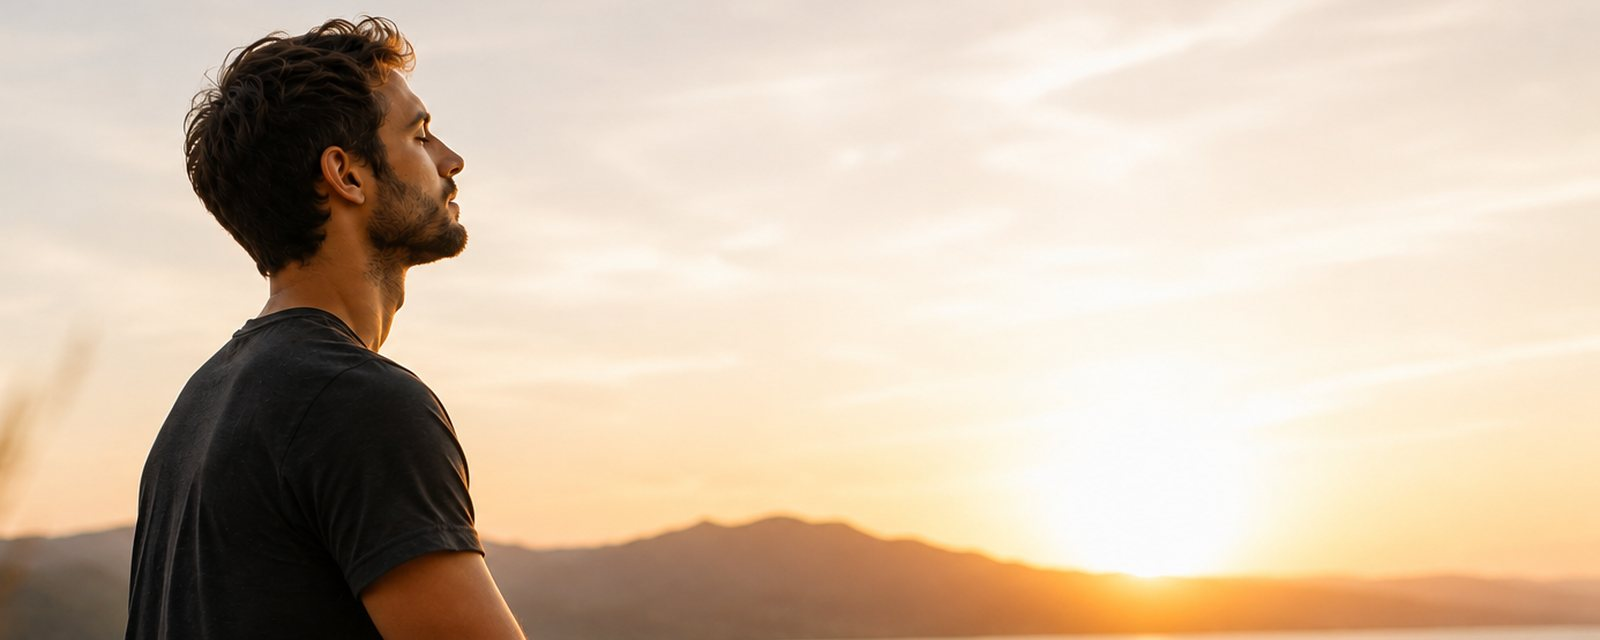
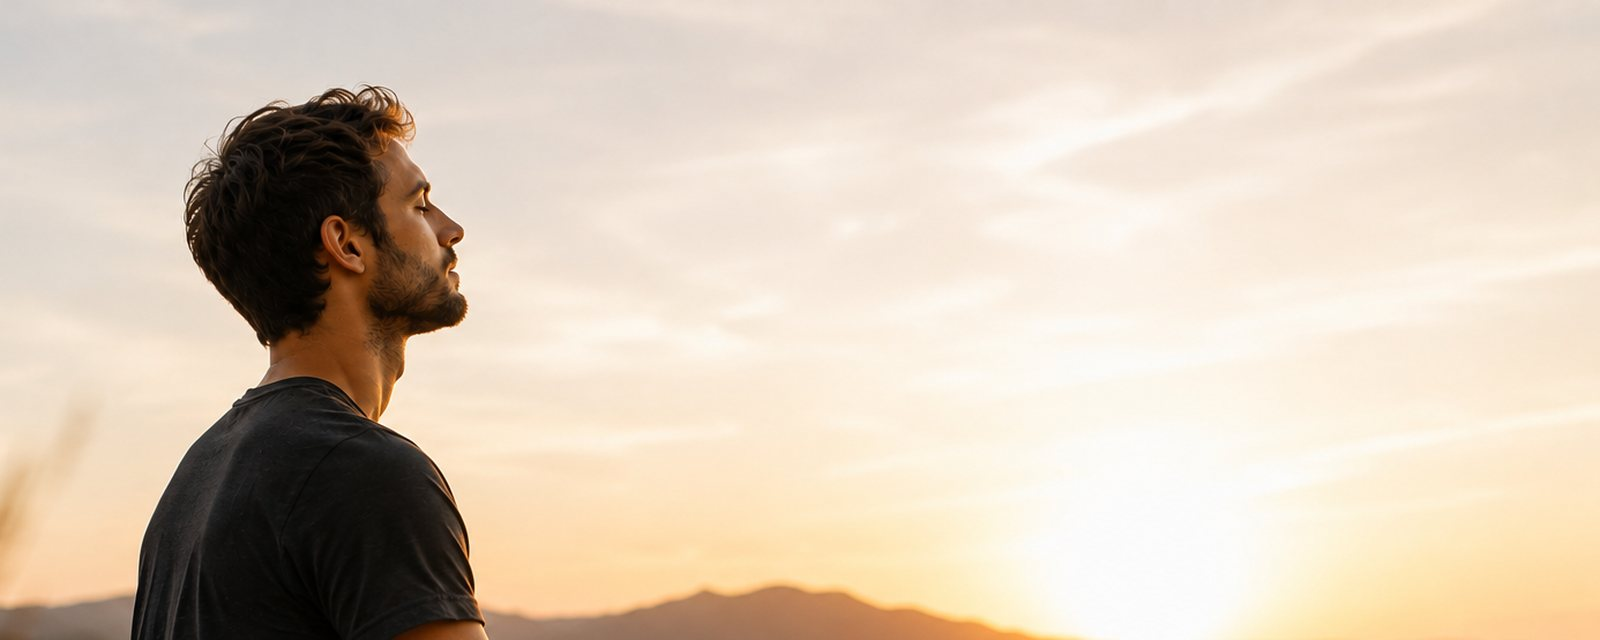
Glava u kadru na zavrsnoj traci (v=116)

diff --git a/style.css b/style.css
@@ -456,7 +456,7 @@ ul.ls.cols2{display:grid;grid-template-columns:1fr 1fr;gap:12px 34px;margin-bott
 .fw .intro .wrap .pl{max-width:1040px;}
 .fw .bigquote blockquote{max-width:1040px;}
 .fw .quote-band p{max-width:860px;}
-.quote-band{background-image:url('img/zavrsna.jpg?2');background-position:left center;}
+.quote-band{background-image:url('img/zavrsna.jpg?3');background-position:left top;}
 
 /* ---- samadhi v4: jace dizajnerske sekcije ---- */
 .icon-grid .ig{background:#fffdfa;border:1px solid #eee0d0;border-radius:16px;padding:28px 14px 24px;transition:transform .25s, box-shadow .25s;}

diff --git a/blog.html b/blog.html
@@ -7,7 +7,7 @@
 <link rel="preconnect" href="https://fonts.googleapis.com">
 <link rel="preconnect" href="https://fonts.gstatic.com" crossorigin>
 <link href="https://fonts.googleapis.com/css2?family=Lora:ital,wght@0,400;0,500;0,600;0,700;1,400&family=Open+Sans:wght@300;400;500;600;700&display=swap" rel="stylesheet">
-<link rel="stylesheet" href="style.css?v=115">
+<link rel="stylesheet" href="style.css?v=116">
 </head>
 <body class="fw">
 

diff --git a/faq.html b/faq.html
@@ -7,7 +7,7 @@
 <link rel="preconnect" href="https://fonts.googleapis.com">
 <link rel="preconnect" href="https://fonts.gstatic.com" crossorigin>
 <link href="https://fonts.googleapis.com/css2?family=Lora:ital,wght@0,400;0,500;0,600;0,700;1,400&family=Open+Sans:wght@300;400;500;600;700&display=swap" rel="stylesheet">
-<link rel="stylesheet" href="style.css?v=115">
+<link rel="stylesheet" href="style.css?v=116">
 </head>
 <body class="fw">
 

diff --git a/index.html b/index.html
@@ -7,7 +7,7 @@
 <link rel="preconnect" href="https://fonts.googleapis.com">
 <link rel="preconnect" href="https://fonts.gstatic.com" crossorigin>
 <link href="https://fonts.googleapis.com/css2?family=Lora:ital,wght@0,400;0,500;0,600;0,700;1,400&family=Open+Sans:wght@300;400;500;600;700&display=swap" rel="stylesheet">
-<link rel="stylesheet" href="style.css?v=115">
+<link rel="stylesheet" href="style.css?v=116">
 </head>
 <body class="fw">
 

diff --git a/kolacici.html b/kolacici.html
@@ -7,7 +7,7 @@
 <link rel="preconnect" href="https://fonts.googleapis.com">
 <link rel="preconnect" href="https://fonts.gstatic.com" crossorigin>
 <link href="https://fonts.googleapis.com/css2?family=Lora:ital,wght@0,400;0,500;0,600;0,700;1,400&family=Open+Sans:wght@300;400;500;600;700&display=swap" rel="stylesheet">
-<link rel="stylesheet" href="style.css?v=115">
+<link rel="stylesheet" href="style.css?v=116">
 </head>
 <body class="fw">
 

diff --git a/konstelacije.html b/konstelacije.html
@@ -7,7 +7,7 @@
 <link rel="preconnect" href="https://fonts.googleapis.com">
 <link rel="preconnect" href="https://fonts.gstatic.com" crossorigin>
 <link href="https://fonts.googleapis.com/css2?family=Lora:ital,wght@0,400;0,500;0,600;0,700;1,400&family=Open+Sans:wght@300;400;500;600;700&display=swap" rel="stylesheet">
-<link rel="stylesheet" href="style.css?v=115">
+<link rel="stylesheet" href="style.css?v=116">
 </head>
 <body class="fw">
 

diff --git a/kontakt.html b/kontakt.html
@@ -7,7 +7,7 @@
 <link rel="preconnect" href="https://fonts.googleapis.com">
 <link rel="preconnect" href="https://fonts.gstatic.com" crossorigin>
 <link href="https://fonts.googleapis.com/css2?family=Lora:ital,wght@0,400;0,500;0,600;0,700;1,400&family=Open+Sans:wght@300;400;500;600;700&display=swap" rel="stylesheet">
-<link rel="stylesheet" href="style.css?v=115">
+<link rel="stylesheet" href="style.css?v=116">
 </head>
 <body class="fw">
 

diff --git a/omeni.html b/omeni.html
@@ -7,7 +7,7 @@
 <link rel="preconnect" href="https://fonts.googleapis.com">
 <link rel="preconnect" href="https://fonts.gstatic.com" crossorigin>
 <link href="https://fonts.googleapis.com/css2?family=Lora:ital,wght@0,400;0,500;0,600;0,700;1,400&family=Open+Sans:wght@300;400;500;600;700&display=swap" rel="stylesheet">
-<link rel="stylesheet" href="style.css?v=115">
+<link rel="stylesheet" href="style.css?v=116">
 </head>
 <body class="fw">
 

diff --git a/portal.html b/portal.html
@@ -7,7 +7,7 @@
 <link rel="preconnect" href="https://fonts.googleapis.com">
 <link rel="preconnect" href="https://fonts.gstatic.com" crossorigin>
 <link href="https://fonts.googleapis.com/css2?family=Lora:ital,wght@0,400;0,500;0,600;0,700;1,400&family=Open+Sans:wght@300;400;500;600;700&display=swap" rel="stylesheet">
-<link rel="stylesheet" href="style.css?v=115">
+<link rel="stylesheet" href="style.css?v=116">
 </head>
 <body class="fw">
 

diff --git a/post.html b/post.html
@@ -7,7 +7,7 @@
 <link rel="preconnect" href="https://fonts.googleapis.com">
 <link rel="preconnect" href="https://fonts.gstatic.com" crossorigin>
 <link href="https://fonts.googleapis.com/css2?family=Lora:ital,wght@0,400;0,500;0,600;0,700;1,400&family=Open+Sans:wght@300;400;500;600;700&display=swap" rel="stylesheet">
-<link rel="stylesheet" href="style.css?v=115">
+<link rel="stylesheet" href="style.css?v=116">
 </head>
 <body class="fw">
 

diff --git a/privatnost.html b/privatnost.html
@@ -7,7 +7,7 @@
 <link rel="preconnect" href="https://fonts.googleapis.com">
 <link rel="preconnect" href="https://fonts.gstatic.com" crossorigin>
 <link href="https://fonts.googleapis.com/css2?family=Lora:ital,wght@0,400;0,500;0,600;0,700;1,400&family=Open+Sans:wght@300;400;500;600;700&display=swap" rel="stylesheet">
-<link rel="stylesheet" href="style.css?v=115">
+<link rel="stylesheet" href="style.css?v=116">
 </head>
 <body class="fw">
 

diff --git a/programi.html b/programi.html
@@ -7,7 +7,7 @@
 <link rel="preconnect" href="https://fonts.googleapis.com">
 <link rel="preconnect" href="https://fonts.gstatic.com" crossorigin>
 <link href="https://fonts.googleapis.com/css2?family=Lora:ital,wght@0,400;0,500;0,600;0,700;1,400&family=Open+Sans:wght@300;400;500;600;700&display=swap" rel="stylesheet">
-<link rel="stylesheet" href="style.css?v=115">
+<link rel="stylesheet" href="style.css?v=116">
 </head>
 <body class="fw">
 
